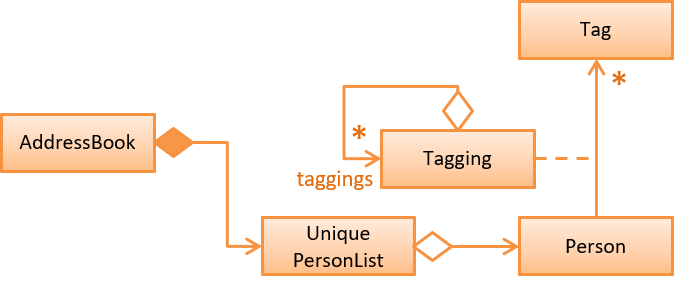
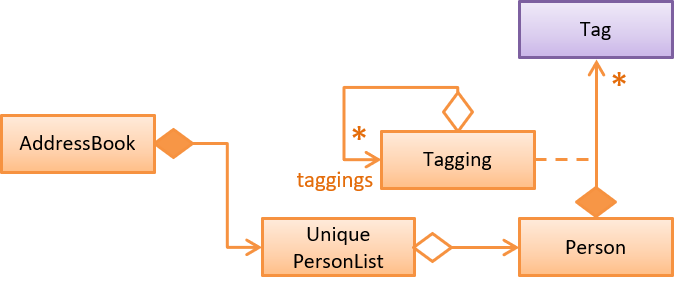
Interdiff between v2 and v3

diff --git a/test/java/seedu/addressbook/data/AddressBookTest.java b/test/java/seedu/addressbook/data/AddressBookTest.java
@@ -6,6 +6,10 @@ import static seedu.addressbook.util.TestUtil.getSize;
 import static seedu.addressbook.util.TestUtil.isEmpty;
 import static seedu.addressbook.util.TestUtil.isIdentical;
 
+import java.util.Arrays;
+import java.util.Collections;
+import java.util.HashSet;
+
 import org.junit.Before;
 import org.junit.Rule;
 import org.junit.Test;
@@ -19,7 +23,7 @@ import seedu.addressbook.data.person.Phone;
 import seedu.addressbook.data.person.UniquePersonList;
 import seedu.addressbook.data.person.UniquePersonList.DuplicatePersonException;
 import seedu.addressbook.data.person.UniquePersonList.PersonNotFoundException;
-import seedu.addressbook.data.tag.Tag;
+import seedu.addressbook.data.person.Tag;
 
 public class AddressBookTest {
     private Tag tagPrizeWinner;
@@ -47,25 +51,25 @@ public class AddressBookTest {
                                     new Phone("91235468", false),
                                     new Email("alice@nushackers.org", false),
                                     new Address("8 Computing Drive, Singapore", false),
-                                    tagMathematician);
+                                    Collections.singleton(tagMathematician));
 
         bobChaplin     = new Person(new Name("Bob Chaplin"),
                                     new Phone("94321500", false),
                                     new Email("bob@nusgreyhats.org", false),
                                     new Address("9 Computing Drive", false),
-                                    tagMathematician);
+                                    Collections.singleton(tagMathematician));
 
         charlieDouglas = new Person(new Name("Charlie Douglas"),
                                     new Phone("98751365", false),
                                     new Email("charlie@nusgdg.org", false),
                                     new Address("10 Science Drive", false),
-                                    tagScientist);
+                                    Collections.singleton(tagScientist));
 
         davidElliot    = new Person(new Name("David Elliot"),
                                     new Phone("84512575", false),
                                     new Email("douglas@nuscomputing.com", false),
                                     new Address("11 Arts Link", false),
-                                    tagEconomist, tagPrizeWinner);
+                                    new HashSet<>(Arrays.asList(tagEconomist, tagPrizeWinner)));
 
         emptyAddressBook = new AddressBook();
         defaultAddressBook = new AddressBook(new UniquePersonList(aliceBetsy, bobChaplin));

diff --git a/test/java/seedu/addressbook/commands/AddCommandTest.java b/test/java/seedu/addressbook/commands/AddCommandTest.java
@@ -26,14 +26,14 @@ import seedu.addressbook.util.TestUtil;
 
 public class AddCommandTest {
     private static final List<ReadOnlyPerson> EMPTY_PERSON_LIST = Collections.emptyList();
-    private static final Set<String> EMPTY_STRING_LIST = new HashSet<>();
+    private static final Set<String> EMPTY_STRING_SET = Collections.emptySet();
 
     @Test
     public void addCommand_invalidName_throwsException() {
         final String[] invalidNames = { "", " ", "[]\\[;]" };
         for (String name : invalidNames) {
             assertConstructingInvalidAddCmdThrowsException(name, Phone.EXAMPLE, true, Email.EXAMPLE, false,
-                    Address.EXAMPLE, true, EMPTY_STRING_LIST);
+                    Address.EXAMPLE, true, EMPTY_STRING_SET);
         }
     }
 
@@ -42,7 +42,7 @@ public class AddCommandTest {
         final String[] invalidNumbers = { "", " ", "1234-5678", "[]\\[;]", "abc", "a123", "+651234" };
         for (String number : invalidNumbers) {
             assertConstructingInvalidAddCmdThrowsException(Name.EXAMPLE, number, false, Email.EXAMPLE, true,
-                    Address.EXAMPLE, false, EMPTY_STRING_LIST);
+                    Address.EXAMPLE, false, EMPTY_STRING_SET);
         }
     }
 
@@ -52,7 +52,7 @@ public class AddCommandTest {
                                          "@invalid@email", "invalid@email!", "!invalid@email" };
         for (String email : invalidEmails) {
             assertConstructingInvalidAddCmdThrowsException(Name.EXAMPLE, Phone.EXAMPLE, false, email, false,
-                    Address.EXAMPLE, false, EMPTY_STRING_LIST);
+                    Address.EXAMPLE, false, EMPTY_STRING_SET);
         }
     }
 
@@ -61,7 +61,7 @@ public class AddCommandTest {
         final String[] invalidAddresses = { "", " " };
         for (String address : invalidAddresses) {
             assertConstructingInvalidAddCmdThrowsException(Name.EXAMPLE, Phone.EXAMPLE, true, Email.EXAMPLE,
-                    true, address, true, EMPTY_STRING_LIST);
+                    true, address, true, EMPTY_STRING_SET);
         }
     }
 
@@ -98,7 +98,7 @@ public class AddCommandTest {
     @Test
     public void addCommand_validData_correctlyConstructed() throws Exception {
         AddCommand command = new AddCommand(Name.EXAMPLE, Phone.EXAMPLE, true, Email.EXAMPLE, false,
-                Address.EXAMPLE, true, EMPTY_STRING_LIST);
+                Address.EXAMPLE, true, EMPTY_STRING_SET);
         ReadOnlyPerson p = command.getPerson();
 
         // TODO: add comparison of tags to person.equals and equality methods to

diff --git a/test/java/seedu/addressbook/commands/DeleteCommandTest.java b/test/java/seedu/addressbook/commands/DeleteCommandTest.java
@@ -2,7 +2,7 @@ package seedu.addressbook.commands;
 
 import static org.junit.Assert.assertEquals;
 
-import java.util.HashSet;
+import java.util.Collections;
 import java.util.List;
 
 import org.junit.Before;
@@ -33,14 +33,14 @@ public class DeleteCommandTest {
     @Before
     public void setUp() throws Exception {
         Person johnDoe = new Person(new Name("John Doe"), new Phone("61234567", false),
-                new Email("john@doe.com", false), new Address("395C Ben Road", false), new HashSet<>());
+                new Email("john@doe.com", false), new Address("395C Ben Road", false), Collections.emptySet());
         Person janeDoe = new Person(new Name("Jane Doe"), new Phone("91234567", false),
-                new Email("jane@doe.com", false), new Address("33G Ohm Road", false), new HashSet<>());
+                new Email("jane@doe.com", false), new Address("33G Ohm Road", false), Collections.emptySet());
         Person samDoe = new Person(new Name("Sam Doe"), new Phone("63345566", false),
-                new Email("sam@doe.com", false), new Address("55G Abc Road", false), new HashSet<>());
+                new Email("sam@doe.com", false), new Address("55G Abc Road", false), Collections.emptySet());
         Person davidGrant = new Person(new Name("David Grant"), new Phone("61121122", false),
                 new Email("david@grant.com", false), new Address("44H Define Road", false),
-                new HashSet<>());
+                Collections.emptySet());
 
         emptyAddressBook = TestUtil.createAddressBook();
         addressBook = TestUtil.createAddressBook(johnDoe, janeDoe, davidGrant, samDoe);
@@ -65,7 +65,7 @@ public class DeleteCommandTest {
     public void execute_targetPersonNotInAddressBook_returnsPersonNotFoundMessage()
             throws IllegalValueException {
         Person notInAddressBookPerson = new Person(new Name("Not In Book"), new Phone("63331444", false),
-                new Email("notin@book.com", false), new Address("156D Grant Road", false), new HashSet<>());
+                new Email("notin@book.com", false), new Address("156D Grant Road", false), Collections.emptySet());
         List<ReadOnlyPerson> listWithPersonNotInAddressBook = TestUtil.createList(notInAddressBookPerson);
 
         assertDeletionFailsDueToNoSuchPerson(1, addressBook, listWithPersonNotInAddressBook);

diff --git a/test/java/seedu/addressbook/util/TypicalPersons.java b/test/java/seedu/addressbook/util/TypicalPersons.java
@@ -1,6 +1,6 @@
 package seedu.addressbook.util;
 
-import java.util.HashSet;
+import java.util.Collections;
 
 import seedu.addressbook.data.AddressBook;
 import seedu.addressbook.data.exception.IllegalValueException;
@@ -9,6 +9,7 @@ import seedu.addressbook.data.person.Email;
 import seedu.addressbook.data.person.Name;
 import seedu.addressbook.data.person.Person;
 import seedu.addressbook.data.person.Phone;
+import seedu.addressbook.data.person.Tag;
 
 /**
  * Class to generate typical test persons
@@ -20,13 +21,13 @@ public class TypicalPersons {
     public TypicalPersons() {
         try {
             amy = new Person(new Name("Amy Buck"), new Phone("91119111", false), new Email("ab@gmail.com", false),
-                    new Address("1 Clementi Road", false), new HashSet<>());
+                    new Address("1 Clementi Road", false), Collections.emptySet());
             bill = new Person(new Name("Bill Clint"), new Phone("92229222", false), new Email("bc@gmail.com", false),
-                    new Address("2 Clementi Road", true), new HashSet<>());
+                    new Address("2 Clementi Road", true), Collections.emptySet());
             candy = new Person(new Name("Candy Destiny"), new Phone("93339333", true),
-                    new Email("cd@gmail.com", false), new Address("3 Clementi Road", true), new HashSet<>());
+                    new Email("cd@gmail.com", false), new Address("3 Clementi Road", true), Collections.emptySet());
             dan = new Person(new Name("Dan Smith"), new Phone("1234556", true), new Email("ss@tt.com", true),
-                    new Address("NUS", true), new HashSet<>());
+                    new Address("NUS", true), Collections.singleton(new Tag("test")));
         } catch (IllegalValueException e) {
             e.printStackTrace();
             assert false : "not possible";

diff --git a/test/java/seedu/addressbook/util/TestUtil.java b/test/java/seedu/addressbook/util/TestUtil.java
@@ -10,10 +10,9 @@ import java.nio.file.Files;
 import java.nio.file.Path;
 import java.nio.file.Paths;
 import java.util.ArrayList;
-import java.util.HashSet;
+import java.util.Collections;
 import java.util.Iterator;
 import java.util.List;
-import java.util.Set;
 
 import seedu.addressbook.data.AddressBook;
 import seedu.addressbook.data.exception.IllegalValueException;
@@ -23,9 +22,7 @@ import seedu.addressbook.data.person.Name;
 import seedu.addressbook.data.person.Person;
 import seedu.addressbook.data.person.Phone;
 import seedu.addressbook.data.person.ReadOnlyPerson;
-import seedu.addressbook.data.person.UniquePersonList;
 import seedu.addressbook.data.person.UniquePersonList.DuplicatePersonException;
-import seedu.addressbook.data.tag.Tag;
 
 public class TestUtil {
     /**
@@ -110,23 +107,11 @@ public class TestUtil {
     public static Person generateTestPerson() {
         try {
             return new Person(new Name(Name.EXAMPLE), new Phone(Phone.EXAMPLE, false),
-                    new Email(Email.EXAMPLE, true), new Address(Address.EXAMPLE, false), new HashSet<>());
+                    new Email(Email.EXAMPLE, true), new Address(Address.EXAMPLE, false), Collections.emptySet());
         } catch (IllegalValueException e) {
             fail("test person data should be valid by definition");
             return null;
         }
-    }
-
-    public static Set<Tag> getAllTags(UniquePersonList persons) {
-        Set<Tag> combinedTagList = new HashSet<Tag>();
-
-        for (Person person : persons) {
-            for (Tag tag : person.getTags()) {
-                combinedTagList.add(tag);
-            }
-        }
-
-        return combinedTagList;
     }
 
     /**

diff --git a/test/java/seedu/addressbook/storage/StorageFileTest.java b/test/java/seedu/addressbook/storage/StorageFileTest.java
@@ -3,6 +3,8 @@ package seedu.addressbook.storage;
 import static org.junit.Assert.assertEquals;
 
 import java.nio.file.Paths;
+import java.util.Arrays;
+import java.util.Collections;
 import java.util.HashSet;
 
 import org.junit.Rule;
@@ -17,7 +19,7 @@ import seedu.addressbook.data.person.Email;
 import seedu.addressbook.data.person.Name;
 import seedu.addressbook.data.person.Person;
 import seedu.addressbook.data.person.Phone;
-import seedu.addressbook.data.tag.Tag;
+import seedu.addressbook.data.person.Tag;
 import seedu.addressbook.storage.StorageFile.StorageOperationException;
 import static seedu.addressbook.util.TestUtil.assertTextFilesEqual;
 import static seedu.addressbook.util.TestUtil.assertFileDoesNotExist;
@@ -112,12 +114,12 @@ public class StorageFileTest {
                                 new Phone("98765432", false),
                                 new Email("johnd@gmail.com", false),
                                 new Address("John street, block 123, #01-01", false),
-                                new HashSet<>()));
+                                Collections.emptySet()));
         ab.addPerson(new Person(new Name("Betsy Crowe"),
                                 new Phone("1234567", true),
                                 new Email("betsycrowe@gmail.com", false),
                                 new Address("Newgate Prison", true),
-                                new Tag("friend"), new Tag("criminal")));
+                                new HashSet<>(Arrays.asList(new Tag("friend"), new Tag("criminal")))));
         return ab;
     }
 }

diff --git a/src/seedu/addressbook/data/person/Person.java b/src/seedu/addressbook/data/person/Person.java
@@ -1,11 +1,8 @@
 package seedu.addressbook.data.person;
 
-import java.util.Arrays;
 import java.util.HashSet;
 import java.util.Objects;
 import java.util.Set;
-
-import seedu.addressbook.data.tag.Tag;
 
 /**
  * Represents a Person in the address book.
@@ -18,7 +15,7 @@ public class Person implements ReadOnlyPerson {
     private Email email;
     private Address address;
 
-    private final Set<Tag> tags;
+    private final Set<Tag> tags = new HashSet<>();
 
     /**
      * Assumption: Every field must be present and not null.
@@ -28,14 +25,7 @@ public class Person implements ReadOnlyPerson {
         this.phone = phone;
         this.email = email;
         this.address = address;
-        this.tags = tags;
-    }
-
-    /**
-     * Constructs a Person with duplicate tags removed.
-     */
-    public Person(Name name, Phone phone, Email email, Address address, Tag... tags) {
-        this(name, phone, email, address, new HashSet<>(Arrays.asList(tags)));
+        this.tags.addAll(tags);
     }
 
     /**

diff --git a/test/java/seedu/addressbook/parser/ParserTest.java b/test/java/seedu/addressbook/parser/ParserTest.java
@@ -30,7 +30,7 @@ import seedu.addressbook.data.person.Name;
 import seedu.addressbook.data.person.Person;
 import seedu.addressbook.data.person.Phone;
 import seedu.addressbook.data.person.ReadOnlyPerson;
-import seedu.addressbook.data.tag.Tag;
+import seedu.addressbook.data.person.Tag;
 
 public class ParserTest {
 
@@ -275,7 +275,7 @@ public class ParserTest {
                 new Phone(Phone.EXAMPLE, true),
                 new Email(Email.EXAMPLE, false),
                 new Address(Address.EXAMPLE, true),
-                new Tag("tag1"), new Tag ("tag2"), new Tag("tag3")
+                new HashSet<>(Arrays.asList(new Tag("tag1"), new Tag ("tag2"), new Tag("tag3")))
             );
         } catch (IllegalValueException ive) {
             throw new RuntimeException("test person data should be valid by definition");

diff --git a/test/java/seedu/addressbook/commands/ViewCommandTest.java b/test/java/seedu/addressbook/commands/ViewCommandTest.java
@@ -5,7 +5,6 @@ import static org.junit.Assert.assertEquals;
 import java.util.ArrayList;
 import java.util.Arrays;
 import java.util.Collections;
-import java.util.HashSet;
 import java.util.List;
 import java.util.Optional;
 
@@ -50,7 +49,7 @@ public class ViewCommandTest {
                                              new Phone("123", true),
                                              new Email("some@hey.go", true),
                                              new Address("nus", false),
-                                             new HashSet<>());
+                                             Collections.emptySet());
         List<ReadOnlyPerson> listWithExtraPerson
                 = new ArrayList<ReadOnlyPerson>(listWithAllTypicalPersons);
         listWithExtraPerson.add(stranger);

diff --git a/src/seedu/addressbook/storage/jaxb/AdaptedPerson.java b/src/seedu/addressbook/storage/jaxb/AdaptedPerson.java
@@ -17,7 +17,7 @@ import seedu.addressbook.data.person.Name;
 import seedu.addressbook.data.person.Person;
 import seedu.addressbook.data.person.Phone;
 import seedu.addressbook.data.person.ReadOnlyPerson;
-import seedu.addressbook.data.tag.Tag;
+import seedu.addressbook.data.person.Tag;
 
 /**
  * JAXB-friendly adapted person data holder class.

diff --git a/src/seedu/addressbook/commands/AddCommand.java b/src/seedu/addressbook/commands/AddCommand.java
@@ -11,7 +11,7 @@ import seedu.addressbook.data.person.Person;
 import seedu.addressbook.data.person.Phone;
 import seedu.addressbook.data.person.ReadOnlyPerson;
 import seedu.addressbook.data.person.UniquePersonList;
-import seedu.addressbook.data.tag.Tag;
+import seedu.addressbook.data.person.Tag;
 
 /**
  * Adds a person to the address book.

diff --git a/src/seedu/addressbook/data/person/ReadOnlyPerson.java b/src/seedu/addressbook/data/person/ReadOnlyPerson.java
@@ -2,8 +2,6 @@ package seedu.addressbook.data.person;
 
 import java.util.Set;
 
-import seedu.addressbook.data.tag.Tag;
-
 /**
  * A read-only immutable interface for a Person in the addressbook.
  * Implementations should guarantee: details are present and not null, field values are validated.
